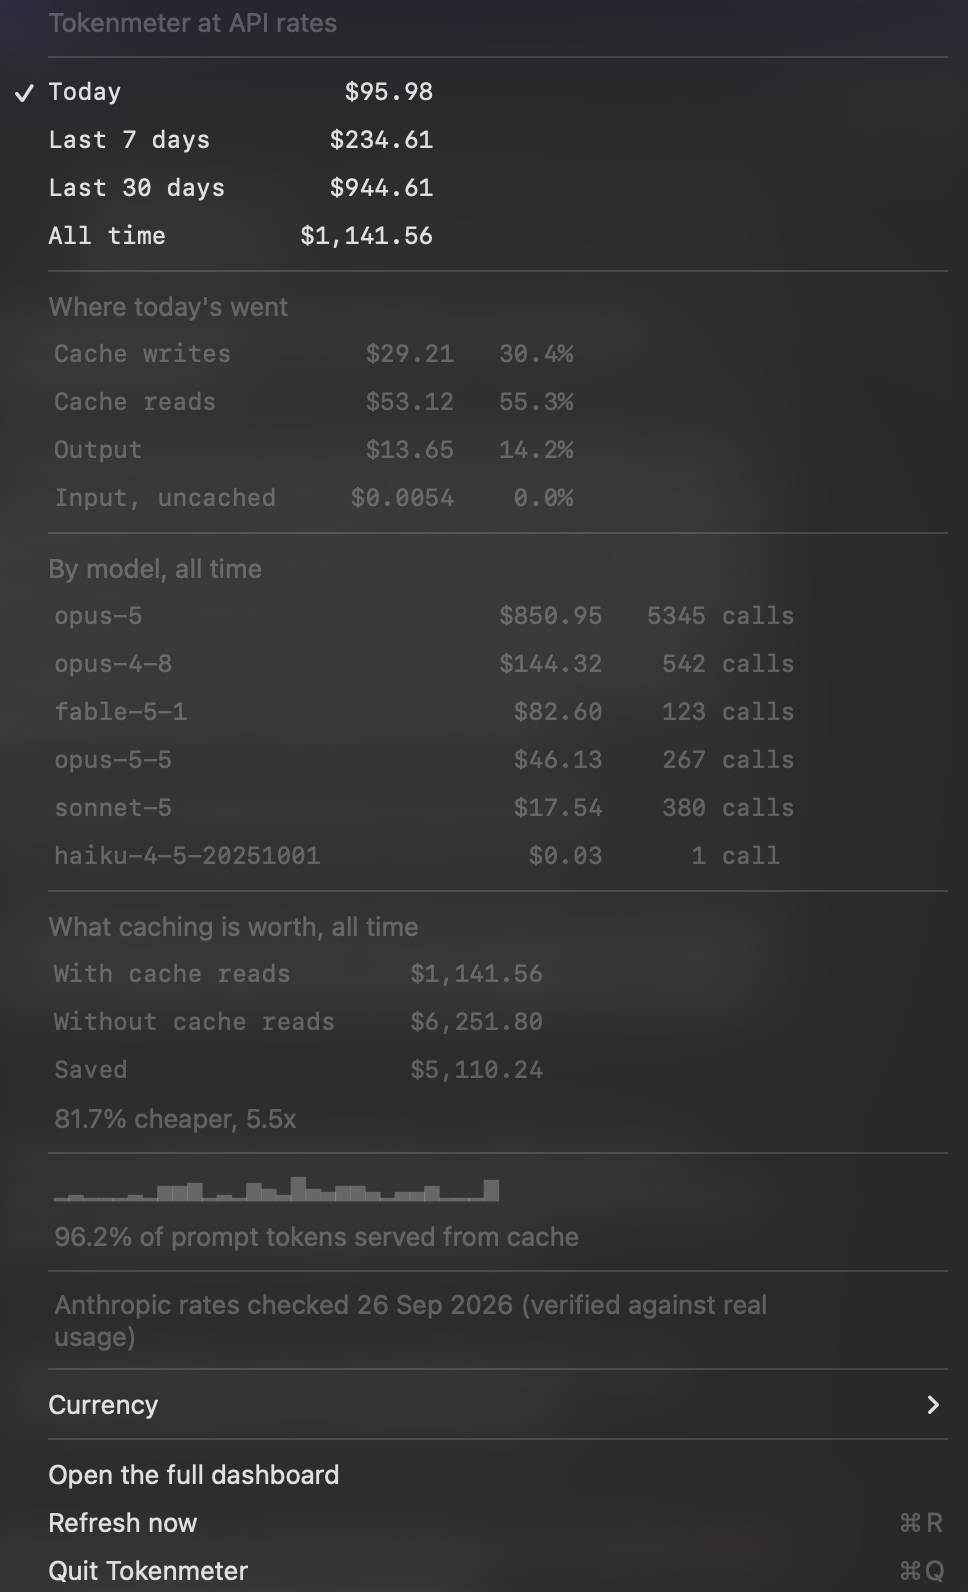
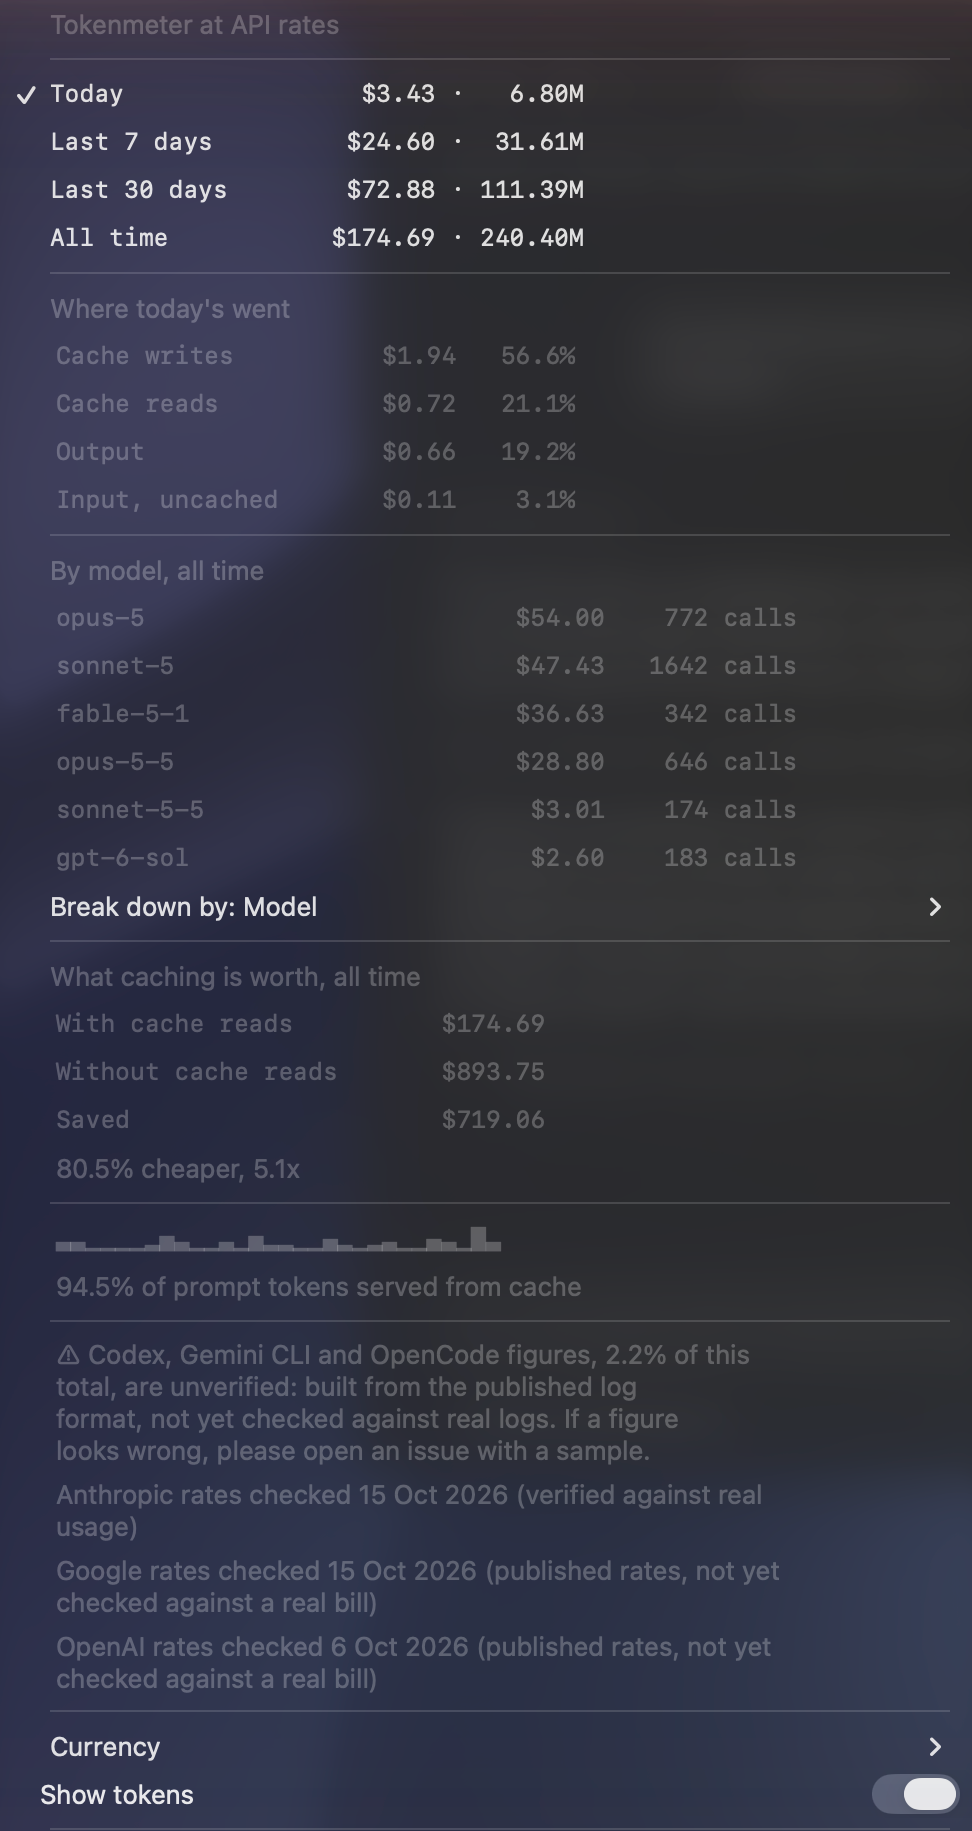
docs: the menu bar image is the real app running against the invented demo, cropped where one screen ends at Show tokens

diff --git a/README.md b/README.md
@@ -8,7 +8,7 @@ On a subscription, a coding agent's usage is not billed per token, so you never 
 
 ![The Tokenmeter dashboard](docs/screenshots/dashboard-overview.jpg)
 
-The dashboard and terminal images in this README show an invented history, made by [`docs/screenshots/make_demo.py`](docs/screenshots/make_demo.py), not anyone's real usage.
+The images in this README show an invented history, made by [`docs/screenshots/make_demo.py`](docs/screenshots/make_demo.py), not anyone's real usage. The menu bar image is the real app running against that demo; it is taller than one screen, so it ends at Show tokens.
 
 It has four faces over one engine:
 
